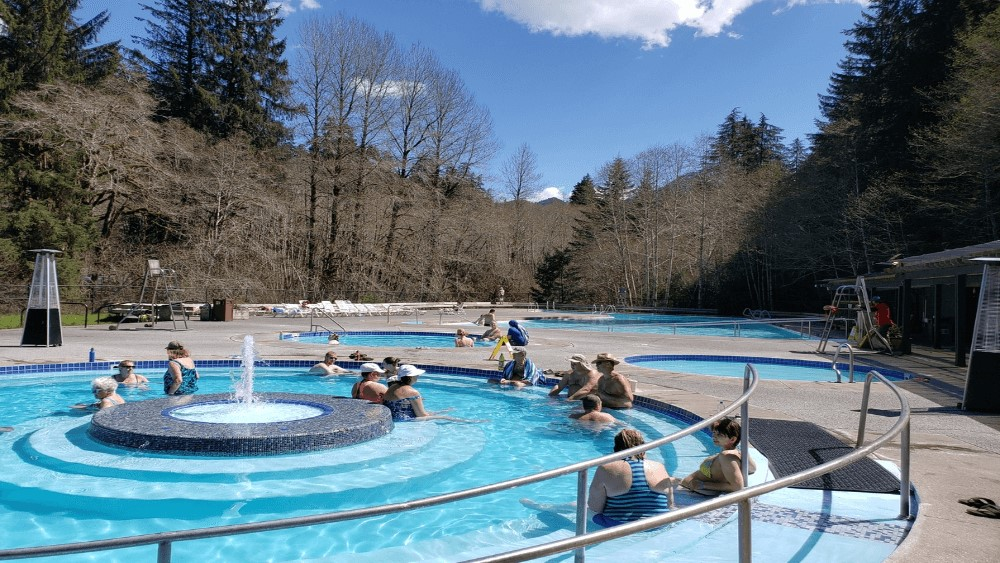
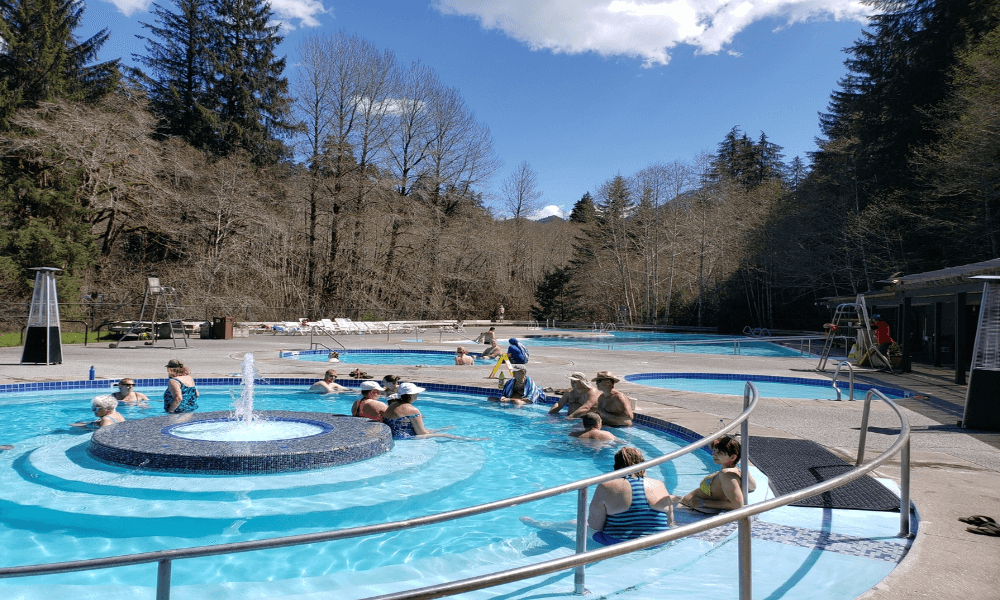
change size of primary top of page images

diff --git a/pools.html b/pools.html
@@ -63,7 +63,7 @@
     <div class="container-fluid justify-content-center">
         <div class="row">
             <div class="col my-4">
-                <img src="assets/images/pool3.jpg" alt="Fountain Pool" class="primary">
+                <img src="assets/images/poolhero.jpg" alt="Pool Area" class="primary">
                 
             </div>
         </div> 
@@ -93,7 +93,7 @@
     <div class="container-fluid justify-content-center text-center">
         <div class="row">
             <div class="col-lg-6 my-4">
-                <img src="assets/images/pool4.jpg" alt="Pool" class="secondary">
+                <img src="assets/images/pool3.jpg" alt="Pool" class="secondary">
                 
             </div>
 
@@ -114,7 +114,7 @@
     <div class="container-fluid justify-content-center text-center">
         <div class="row">
             <div class="col-lg-6 my-4">
-                <img src="assets/images/pool5.jpg" alt="Pool" class="secondary">
+                <img src="assets/images/pool4.jpg" alt="Pool" class="secondary">
                 
             </div>
 

diff --git a/assets/css/style.css b/assets/css/style.css
@@ -161,12 +161,15 @@ div {
 
 /*-------------IMAGES--------------------*/
 
+
 .primary {
   display: block;
   margin-left: auto;
   margin-right: auto;
-  width: 70%;
+  width: 100%;
 }
+
+
 
 .secondary {
   display: block;
@@ -190,11 +193,4 @@ div {
   width: 85%;
 }
 
-/*----------MEDIA QUERIES----------------*/
 
-
-@media only screen and (max-width: 767px) {
-.primary {
-    width: 100%;
-  }
-}

diff --git a/lodging.html b/lodging.html
@@ -63,7 +63,7 @@
     <div class="container-fluid justify-content-center">
         <div class="row">
             <div class="col my-4">
-                <img src="assets/images/cabinexterior.jpg" alt="Cabin Exterior" class="primary">
+                <img src="assets/images/cabinhero.jpg" alt="Cabin Exterior" class="primary">
                 
             </div>
         </div>

diff --git a/dining.html b/dining.html
@@ -63,7 +63,7 @@
     <div class="container-fluid justify-content-center">
         <div class="row">
             <div class="col my-4">
-                <img src="assets/images/diningroom.jpg" alt="Dining Room" class="primary">
+                <img src="assets/images/dininghero.jpg" alt="Dining Room" class="primary">
                 
             </div>
         </div>

diff --git a/contact.html b/contact.html
@@ -65,7 +65,7 @@
     <div class="container-fluid justify-content-center">
         <div class="row">
             <div class="col my-4">
-                <img src="assets/images/lodge2.jpg" alt="Lodge" class="primary">
+                <img src="assets/images/fallshero.jpg" alt="Falls" class="primary">
 
             </div>
         </div>

diff --git a/README.md b/README.md
@@ -33,10 +33,10 @@ The website has 5 pages- Home, Lodging, Dining, Hot Springs and Pool, Contact.
 * The header is the same on all 5 pages and is  emerald green. It includes the Relaxing Hot Springs logo, a navbar for all the pages and a Book Now link to Booking.com. The navbar will collapse to a hamburger type menu on screen sizes smaller than large.
 * The footer is the same on all 5 pages and is brown, which compliments the green of the header, creating a forest colors combination. The footer includes the address and directions to the resort as well as Social Media links.
 * The Main page features an image carousel of 4 images of the resort, information about the resort and surrounding area and images of the surrounding area.
-* The Lodging page features an exterior view of a cabin, an interior view of each room type, as well as information about each room type.
+* The Lodging page features an exterior view of cabins, an interior view of each room type, as well as information about each room type.
 * The Dining page features a view of inside the dining room, an image of the outside patio dining area, a decription of the food served and the hours of operation.
 * The Hot Springs and Pool page has images of the pool area, price and hours information, temperature and depth information of each pool.
-* The Contact page has an image of the front of the lodge and a contact form.
+* The Contact page has an image of a bridge over the falls and a contact form.
  
 ### Existing Features
 * The Navbar includes a Book Now link to Booking.com.
@@ -123,10 +123,9 @@ The resort featured on my website is based on Sol Duc Hot Springs Resort in the 
 
 The photos used for this site were obtained by:
 
-- Falls, Lodge2 and Pool3 were taken by myself.
+- Falls and Pool3 were taken by myself.
 - Boardwalk and Mink Lake are from [Protrails](https://www.protrails.com)
 - Pool4 is from [My Olympic Park](https://www.myolympicpark.com)
-- Pool5 is from [Family Vacation Critic](https://www.familyvacationcritic.com)
 - All others are from [Aramark Services](https://www.olympicnationalparks.com)
 
 
